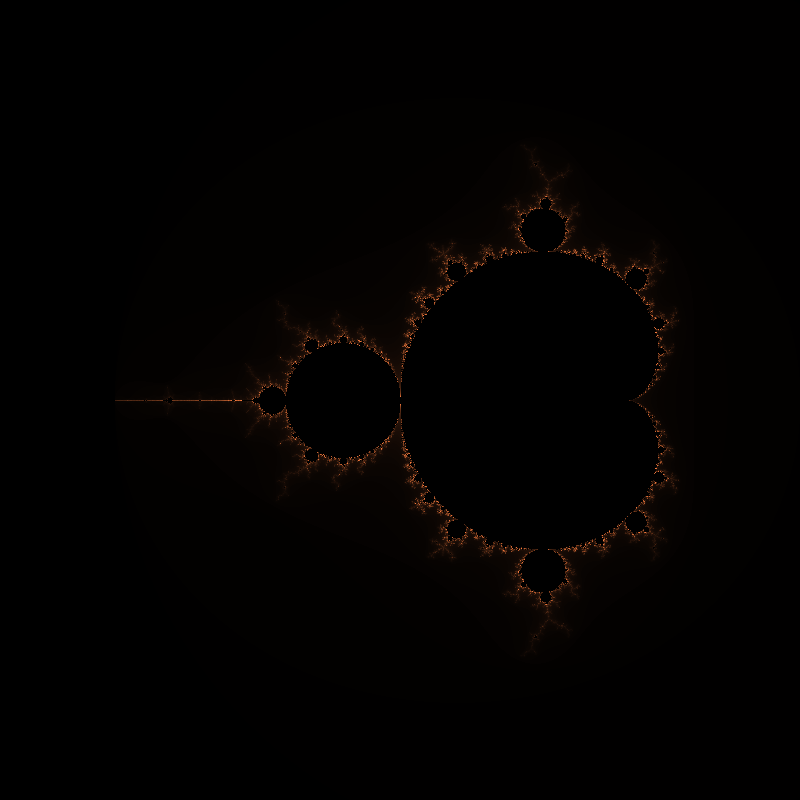
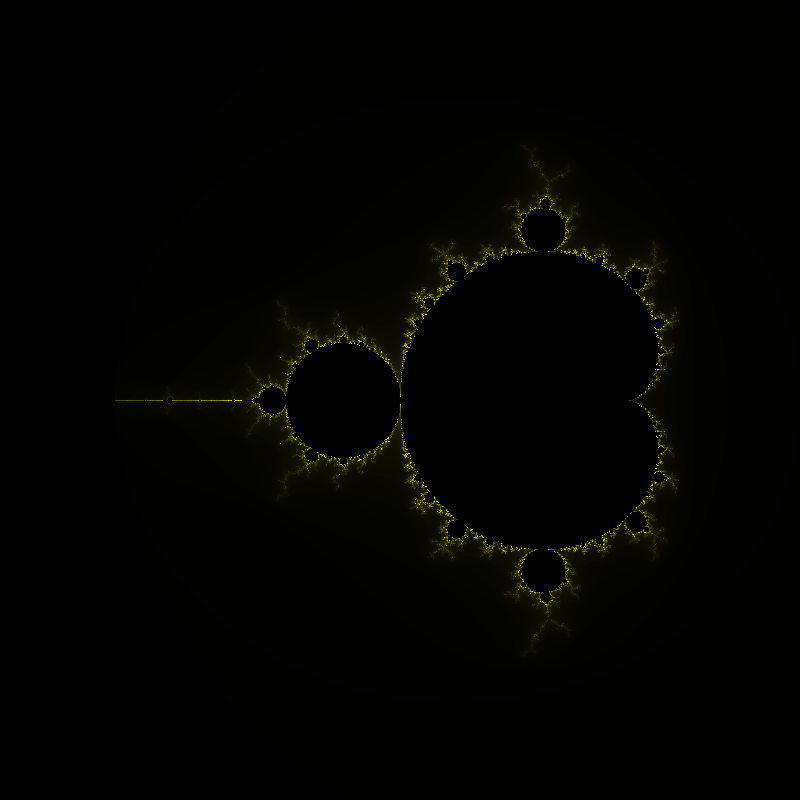
Update README.md

diff --git a/src/main/java/io/github/kmatebotond/mandlebrotset/sets/Set.java b/src/main/java/io/github/kmatebotond/mandlebrotset/sets/Set.java
@@ -63,8 +63,8 @@ public abstract class Set {
                 if (grid[i][j] != iterationMaxValue) {
                     double c = grid[i][j] * (255.0 / iterationMaxValue);
                     color[0] = c;
-                    color[1] = c / 2;
-                    color[2] = c / 4;
+                    color[1] = c;
+                    color[2] = 0;
                 }
                 raster.setPixel(i, j, color);
             }
